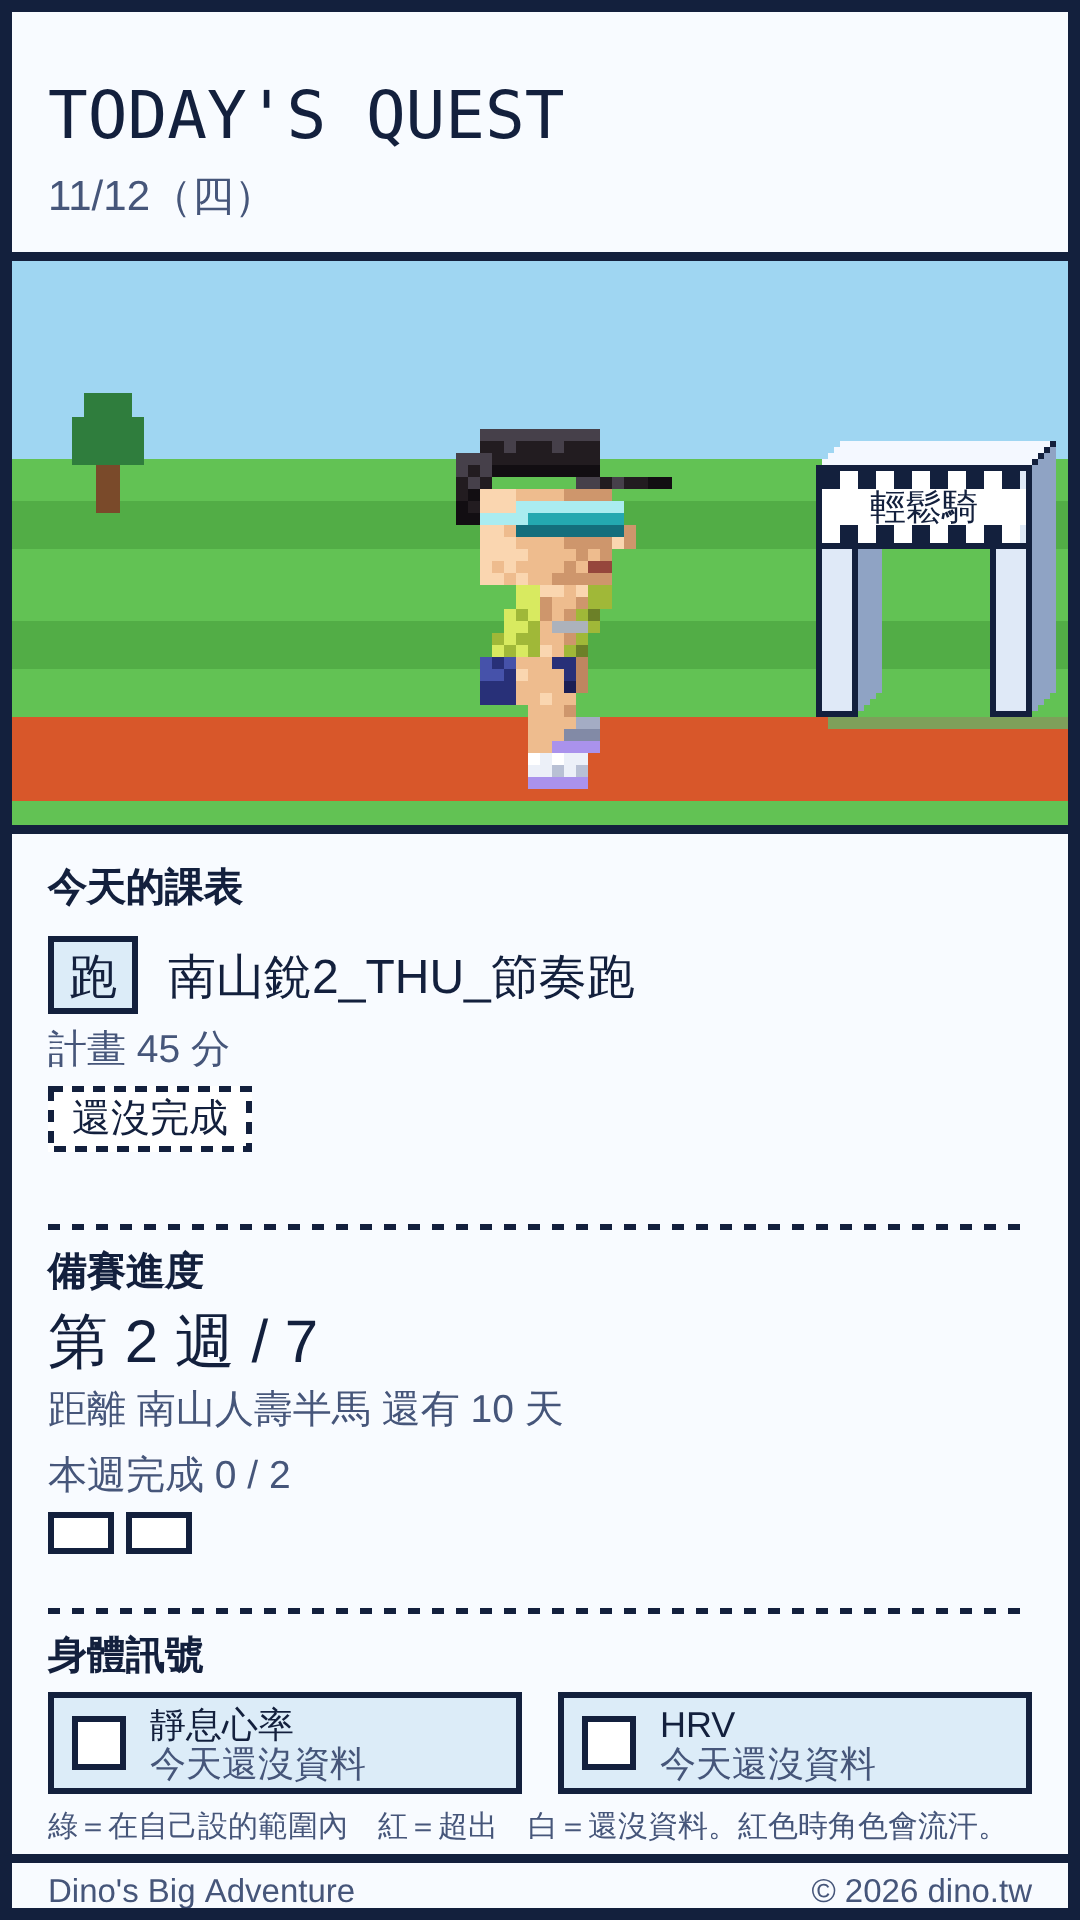
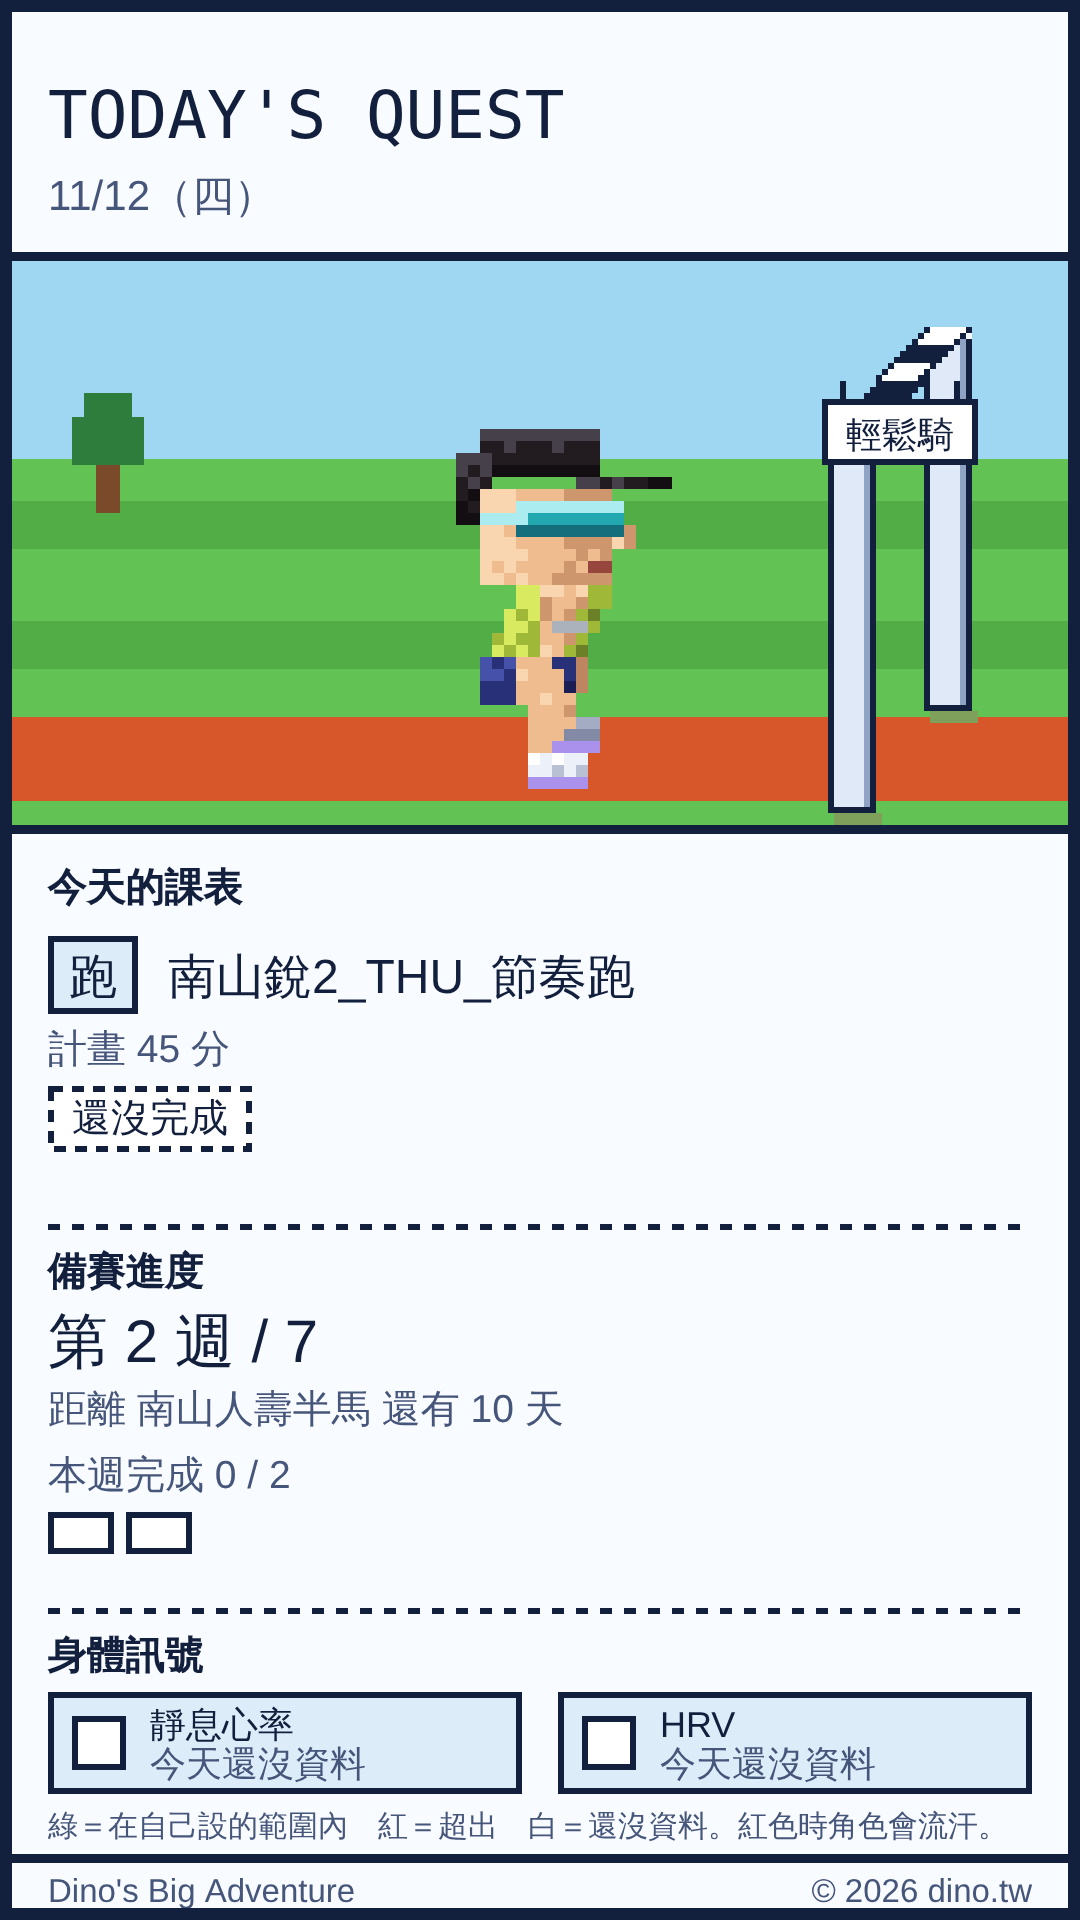
終點拱門改為橫跨跑道：兩柱分在跑道前後兩側、柱高大於娃娃、中間吊名牌

Changed region(s): [[0.7333, 0.1562, 0.9778, 0.4375]]

diff --git a/public-demo/index.html b/public-demo/index.html
@@ -92,25 +92,28 @@ function sprite(x,y,left,act,lvl){
   return out+'</g></g>';
 }
 var WD=['日','一','二','三','四','五','六'];
-/* 終點拱門（斜向立體，pixel 方塊）：回傳 {r:[[x,y,w,h,色]...], t:{x,y,w}}；t 是拱門橫樑上放文字的位置 */
-function archParts(x0,base,aw,ah){
-  var O='#13203d',W='#ffffff',PF='#dfe9f7',PS='#8fa3c4',PT='#f4f8ff',SH='#7ea05a',d=4,pw=7,lh=14,top=base-ah,R=[];
-  function box(x,y,bw,bh){
-    var k;
-    for(k=0;k<d;k++) R.push([x+k+1,y-k-1,bw,1,PT]);           // 頂面
-    for(k=0;k<d;k++) R.push([x+bw+k,y-k-1,1,bh,PS]);          // 側面（深一階）
-    R.push([x,y,bw,bh,PF]);                                    // 正面
-    R.push([x,y,bw,1,O],[x,y+bh-1,bw,1,O],[x,y,1,bh,O],[x+bw-1,y,1,bh,O]); // 正面外框
-    for(k=0;k<d;k++) R.push([x+bw+k,y-k-1,1,1,O]);            // 側面上緣
+/* 終點拱門（橫跨跑道）：近側柱在跑道前方、遠側柱在跑道後方，橫樑斜著連接兩柱頂，中間吊一塊名牌。
+   回傳 {r:[[x,y,w,h,色]...], t:{x,y,w}}；t 是名牌上放文字的位置。baseN／baseF＝近側／遠側柱腳的 y，ah＝柱高，dx＝遠側柱往右的位移，bw＝名牌寬 */
+function archParts(x0,baseN,baseF,ah,dx,bw){
+  var O='#13203d',W='#ffffff',PF='#dfe9f7',PS='#8fa3c4',PT='#f4f8ff',SH='#7ea05a',pw=6,bh=11,R=[];
+  function leg(x,base){
+    var y=base-ah;
+    R.push([x+1,base,pw+2,2,SH]);                                          // 地面影子
+    R.push([x,y-2,pw+2,2,PT]);                                             // 頂蓋
+    R.push([x,y,pw,ah,PF],[x+pw,y,2,ah,PS]);                               // 正面、側面（深一階）
+    R.push([x,y,1,ah,O],[x+pw+1,y,1,ah,O],[x,base-1,pw+2,1,O],[x,y-2,pw+2,1,O]); // 外框
   }
-  R.push([x0+2,base,aw+d,2,SH]);                              // 地面影子
-  box(x0,top+lh-2,pw,ah-lh+2);                                // 左柱
-  box(x0+aw-pw,top+lh-2,pw,ah-lh+2);                          // 右柱
-  box(x0,top,aw,lh);                                          // 橫樑
-  var i,n=Math.floor((aw-2)/3);
-  for(i=0;i<n;i++){ R.push([x0+1+i*3,top+1,3,3,i%2?W:O]); R.push([x0+1+i*3,top+lh-4,3,3,i%2?O:W]); } // 上下格紋
-  R.push([x0+1,top+4,aw-2,lh-8,W]);                           // 中間白底（放文字）
-  return {r:R,t:{x:x0+aw/2,y:top+lh-5,w:aw-6}};
+  leg(x0+dx,baseF);                                                        // 遠側柱（先畫）
+  var yf=baseF-ah-2, yn=baseN-ah-2, y, t;                                  // 橫樑：由遠柱頂斜到近柱頂，黑白相間
+  for(y=yf;y<=yn;y++){
+    t=(y-yf)/Math.max(1,yn-yf); var xl=x0+dx-Math.round(dx*t);
+    R.push([xl,y,pw+2,1,(Math.floor((y-yf)/3)%2)?O:W],[xl,y,1,1,O],[xl+pw+1,y,1,1,O]);
+  }
+  leg(x0,baseN);                                                           // 近側柱（後畫，擋在橫樑前）
+  var mx=x0+Math.round(dx/2)+4, my=Math.round((yf+yn)/2)+3;                // 名牌
+  R.push([mx-bw/2+3,my-3,1,3,O],[mx+bw/2-4,my-3,1,3,O]);                   // 吊繩
+  R.push([mx-bw/2,my,bw,bh,O],[mx-bw/2+1,my+1,bw-2,bh-2,W]);
+  return {r:R,t:{x:mx,y:my+bh-3,w:bw-4}};
 }
 function archLabel(s,maxChars){s=String(s||'');return s.length>maxChars?s.slice(0,maxChars-1)+'…':s}
 /* 課表原名 → 短標籤（前端顯示用；資料本身不改）。
@@ -143,7 +146,7 @@ function scene(){
   s+='<rect class="m-track" x="0" y="100" width="220" height="14" fill="var(--track)"/>';
   s+=sprite(110,104,false,act,sweat);
   if(SNAP.next){ // 右側的終點拱門，橫樑上寫下一個課表的名稱（用短標籤，例如 Z2、輕鬆騎）
-    var A=archParts(166,112,46,52), lb=archLabel(wlabel(SNAP.next.title,SNAP.next.kind),6), fs=Math.max(4,Math.min(8,Math.floor(A.t.w/lb.length)));
+    var A=archParts(160,119,100,66,19,30), lb=archLabel(wlabel(SNAP.next.title,SNAP.next.kind),5), fs=Math.max(5,Math.min(8,Math.floor(A.t.w/lb.length)));
     A.r.forEach(function(q){s+='<rect x="'+q[0]+'" y="'+q[1]+'" width="'+q[2]+'" height="'+q[3]+'" fill="'+q[4]+'"/>'});
     s+='<text x="'+A.t.x+'" y="'+A.t.y+'" text-anchor="middle" font-size="'+fs+'" fill="#13203d" style="font-family:var(--font-body)">'+esc(lb)+'</text>';
   }

diff --git a/source/showcase_template.html b/source/showcase_template.html
@@ -50,25 +50,28 @@ h1,h2,p{margin:0}
 var SNAP=__SNAP__;
 __SPRITE__
 var WD=['日','一','二','三','四','五','六'];
-/* 終點拱門（斜向立體，pixel 方塊）：回傳 {r:[[x,y,w,h,色]...], t:{x,y,w}}；t 是拱門橫樑上放文字的位置 */
-function archParts(x0,base,aw,ah){
-  var O='#13203d',W='#ffffff',PF='#dfe9f7',PS='#8fa3c4',PT='#f4f8ff',SH='#7ea05a',d=4,pw=7,lh=14,top=base-ah,R=[];
-  function box(x,y,bw,bh){
-    var k;
-    for(k=0;k<d;k++) R.push([x+k+1,y-k-1,bw,1,PT]);           // 頂面
-    for(k=0;k<d;k++) R.push([x+bw+k,y-k-1,1,bh,PS]);          // 側面（深一階）
-    R.push([x,y,bw,bh,PF]);                                    // 正面
-    R.push([x,y,bw,1,O],[x,y+bh-1,bw,1,O],[x,y,1,bh,O],[x+bw-1,y,1,bh,O]); // 正面外框
-    for(k=0;k<d;k++) R.push([x+bw+k,y-k-1,1,1,O]);            // 側面上緣
+/* 終點拱門（橫跨跑道）：近側柱在跑道前方、遠側柱在跑道後方，橫樑斜著連接兩柱頂，中間吊一塊名牌。
+   回傳 {r:[[x,y,w,h,色]...], t:{x,y,w}}；t 是名牌上放文字的位置。baseN／baseF＝近側／遠側柱腳的 y，ah＝柱高，dx＝遠側柱往右的位移，bw＝名牌寬 */
+function archParts(x0,baseN,baseF,ah,dx,bw){
+  var O='#13203d',W='#ffffff',PF='#dfe9f7',PS='#8fa3c4',PT='#f4f8ff',SH='#7ea05a',pw=6,bh=11,R=[];
+  function leg(x,base){
+    var y=base-ah;
+    R.push([x+1,base,pw+2,2,SH]);                                          // 地面影子
+    R.push([x,y-2,pw+2,2,PT]);                                             // 頂蓋
+    R.push([x,y,pw,ah,PF],[x+pw,y,2,ah,PS]);                               // 正面、側面（深一階）
+    R.push([x,y,1,ah,O],[x+pw+1,y,1,ah,O],[x,base-1,pw+2,1,O],[x,y-2,pw+2,1,O]); // 外框
   }
-  R.push([x0+2,base,aw+d,2,SH]);                              // 地面影子
-  box(x0,top+lh-2,pw,ah-lh+2);                                // 左柱
-  box(x0+aw-pw,top+lh-2,pw,ah-lh+2);                          // 右柱
-  box(x0,top,aw,lh);                                          // 橫樑
-  var i,n=Math.floor((aw-2)/3);
-  for(i=0;i<n;i++){ R.push([x0+1+i*3,top+1,3,3,i%2?W:O]); R.push([x0+1+i*3,top+lh-4,3,3,i%2?O:W]); } // 上下格紋
-  R.push([x0+1,top+4,aw-2,lh-8,W]);                           // 中間白底（放文字）
-  return {r:R,t:{x:x0+aw/2,y:top+lh-5,w:aw-6}};
+  leg(x0+dx,baseF);                                                        // 遠側柱（先畫）
+  var yf=baseF-ah-2, yn=baseN-ah-2, y, t;                                  // 橫樑：由遠柱頂斜到近柱頂，黑白相間
+  for(y=yf;y<=yn;y++){
+    t=(y-yf)/Math.max(1,yn-yf); var xl=x0+dx-Math.round(dx*t);
+    R.push([xl,y,pw+2,1,(Math.floor((y-yf)/3)%2)?O:W],[xl,y,1,1,O],[xl+pw+1,y,1,1,O]);
+  }
+  leg(x0,baseN);                                                           // 近側柱（後畫，擋在橫樑前）
+  var mx=x0+Math.round(dx/2)+4, my=Math.round((yf+yn)/2)+3;                // 名牌
+  R.push([mx-bw/2+3,my-3,1,3,O],[mx+bw/2-4,my-3,1,3,O]);                   // 吊繩
+  R.push([mx-bw/2,my,bw,bh,O],[mx-bw/2+1,my+1,bw-2,bh-2,W]);
+  return {r:R,t:{x:mx,y:my+bh-3,w:bw-4}};
 }
 function archLabel(s,maxChars){s=String(s||'');return s.length>maxChars?s.slice(0,maxChars-1)+'…':s}
 /* 課表原名 → 短標籤（前端顯示用；資料本身不改）。
@@ -100,7 +103,7 @@ function scene(){
   s+='<rect class="m-track" x="0" y="100" width="220" height="14" fill="var(--track)"/>';
   s+=sprite(110,104,false,act,sweat);
   if(SNAP.next){ // 右側的終點拱門，橫樑上寫下一個課表的名稱（用短標籤，例如 Z2、輕鬆騎）
-    var A=archParts(166,112,46,52), lb=archLabel(wlabel(SNAP.next.title,SNAP.next.kind),6), fs=Math.max(4,Math.min(8,Math.floor(A.t.w/lb.length)));
+    var A=archParts(160,119,100,66,19,30), lb=archLabel(wlabel(SNAP.next.title,SNAP.next.kind),5), fs=Math.max(5,Math.min(8,Math.floor(A.t.w/lb.length)));
     A.r.forEach(function(q){s+='<rect x="'+q[0]+'" y="'+q[1]+'" width="'+q[2]+'" height="'+q[3]+'" fill="'+q[4]+'"/>'});
     s+='<text x="'+A.t.x+'" y="'+A.t.y+'" text-anchor="middle" font-size="'+fs+'" fill="#13203d" style="font-family:var(--font-body)">'+esc(lb)+'</text>';
   }

diff --git a/public/index.html b/public/index.html
@@ -730,25 +730,28 @@ function cfit(ctx,text,maxW,size,font){
   while(ctx.measureText(text).width>maxW&&z>10){z--;ctx.font=z+'px '+font}
   return text;
 }
-/* 終點拱門（斜向立體，pixel 方塊）：回傳 {r:[[x,y,w,h,色]...], t:{x,y,w}}；t 是拱門橫樑上放文字的位置 */
-function archParts(x0,base,aw,ah){
-  var O='#13203d',W='#ffffff',PF='#dfe9f7',PS='#8fa3c4',PT='#f4f8ff',SH='#7ea05a',d=4,pw=7,lh=14,top=base-ah,R=[];
-  function box(x,y,bw,bh){
-    var k;
-    for(k=0;k<d;k++) R.push([x+k+1,y-k-1,bw,1,PT]);           // 頂面
-    for(k=0;k<d;k++) R.push([x+bw+k,y-k-1,1,bh,PS]);          // 側面（深一階）
-    R.push([x,y,bw,bh,PF]);                                    // 正面
-    R.push([x,y,bw,1,O],[x,y+bh-1,bw,1,O],[x,y,1,bh,O],[x+bw-1,y,1,bh,O]); // 正面外框
-    for(k=0;k<d;k++) R.push([x+bw+k,y-k-1,1,1,O]);            // 側面上緣
+/* 終點拱門（橫跨跑道）：近側柱在跑道前方、遠側柱在跑道後方，橫樑斜著連接兩柱頂，中間吊一塊名牌。
+   回傳 {r:[[x,y,w,h,色]...], t:{x,y,w}}；t 是名牌上放文字的位置。baseN／baseF＝近側／遠側柱腳的 y，ah＝柱高，dx＝遠側柱往右的位移，bw＝名牌寬 */
+function archParts(x0,baseN,baseF,ah,dx,bw){
+  var O='#13203d',W='#ffffff',PF='#dfe9f7',PS='#8fa3c4',PT='#f4f8ff',SH='#7ea05a',pw=6,bh=11,R=[];
+  function leg(x,base){
+    var y=base-ah;
+    R.push([x+1,base,pw+2,2,SH]);                                          // 地面影子
+    R.push([x,y-2,pw+2,2,PT]);                                             // 頂蓋
+    R.push([x,y,pw,ah,PF],[x+pw,y,2,ah,PS]);                               // 正面、側面（深一階）
+    R.push([x,y,1,ah,O],[x+pw+1,y,1,ah,O],[x,base-1,pw+2,1,O],[x,y-2,pw+2,1,O]); // 外框
   }
-  R.push([x0+2,base,aw+d,2,SH]);                              // 地面影子
-  box(x0,top+lh-2,pw,ah-lh+2);                                // 左柱
-  box(x0+aw-pw,top+lh-2,pw,ah-lh+2);                          // 右柱
-  box(x0,top,aw,lh);                                          // 橫樑
-  var i,n=Math.floor((aw-2)/3);
-  for(i=0;i<n;i++){ R.push([x0+1+i*3,top+1,3,3,i%2?W:O]); R.push([x0+1+i*3,top+lh-4,3,3,i%2?O:W]); } // 上下格紋
-  R.push([x0+1,top+4,aw-2,lh-8,W]);                           // 中間白底（放文字）
-  return {r:R,t:{x:x0+aw/2,y:top+lh-5,w:aw-6}};
+  leg(x0+dx,baseF);                                                        // 遠側柱（先畫）
+  var yf=baseF-ah-2, yn=baseN-ah-2, y, t;                                  // 橫樑：由遠柱頂斜到近柱頂，黑白相間
+  for(y=yf;y<=yn;y++){
+    t=(y-yf)/Math.max(1,yn-yf); var xl=x0+dx-Math.round(dx*t);
+    R.push([xl,y,pw+2,1,(Math.floor((y-yf)/3)%2)?O:W],[xl,y,1,1,O],[xl+pw+1,y,1,1,O]);
+  }
+  leg(x0,baseN);                                                           // 近側柱（後畫，擋在橫樑前）
+  var mx=x0+Math.round(dx/2)+4, my=Math.round((yf+yn)/2)+3;                // 名牌
+  R.push([mx-bw/2+3,my-3,1,3,O],[mx+bw/2-4,my-3,1,3,O]);                   // 吊繩
+  R.push([mx-bw/2,my,bw,bh,O],[mx-bw/2+1,my+1,bw-2,bh-2,W]);
+  return {r:R,t:{x:mx,y:my+bh-3,w:bw-4}};
 }
 function archLabel(s,maxChars){s=String(s||'');return s.length>maxChars?s.slice(0,maxChars-1)+'…':s}
 /* 課表原名 → 短標籤（前端顯示用；資料本身不改）。
@@ -791,7 +794,7 @@ function drawCard(D){
   var fi=D.act==='run'?1:0; if(fi>=A.f.length) fi=0;
   A.f[fi].forEach(function(r){R(sx+r[1]*K,sy+r[0]*K,r[2]*K,K,'#'+ACT.p[r[3]])});
   if(NX){ // 右側的終點拱門，橫樑上寫下一個課表的名稱（私人頁面，用課表原名）
-    var AP=archParts(136,76,36,42), lb=archLabel(wlabel(NX.title,NX.kind),6), fs=Math.max(3,Math.min(6,Math.floor(AP.t.w/lb.length)));
+    var AP=archParts(138,92,75,62,16,26), lb=archLabel(wlabel(NX.title,NX.kind),5), fs=Math.max(3,Math.min(6,Math.floor(AP.t.w/lb.length)));
     AP.r.forEach(function(q){R(q[0],q[1],q[2],q[3],q[4])});
     ctx.fillStyle='#13203d'; ctx.textAlign='center'; ctx.font=fs+'px '+BODY; ctx.fillText(lb,AP.t.x,AP.t.y); ctx.textAlign='left';
   }

diff --git a/CLAUDE.md b/CLAUDE.md
@@ -38,7 +38,7 @@
 - 身分與驗證（2026-11-12）：長期方向為專屬身分服務、各服務自己授權（草稿，待決定）；階段 0 已生效：Google 登入方式已建立，`adventure` 只留 Google 並開 Instant authentication，電腦直接跳 Google、iPhone 主畫面網頁直接進頁面（2026-11-12）；兩層登入時間已設（Dino 回報）；待確認太太帳號是否在 Google 測試使用者，並觀察長期不重登。文件索引見 docs/README.md。
 - 同步狀態提示（2026-11-12）：右下角按鈕「↻ 更新於 HH:MM」，最近一次同步失敗時多一行紅字「同步失敗：原因（HH:MM）」，超過 24 小時沒有成功同步時顯示「超過 N 小時未更新」，從未成功同步顯示「尚未成功同步」；/api/sync-status 回傳 failed、staleHours。四種情況並排截圖：docs/shots/sync_status_states.png（scripts/sync_status_states.cjs）。同步失敗的主動通知：Dino 決定**不做**（失敗不嚴重，頁面有呈現即可，2026-11-12）。
 - 自訂網域（2026-11-12）：完整版 adventure.dino.tw、展示版 quest.dino.tw（已部署並驗證，2026-11-12：adventure.dino.tw 未登入時 302 導向 Access 登入；quest.dino.tw 公開，/api/snapshot 回 200，其餘 /api/* 為 404，無禁止欄位；檢查腳本 scripts/check_domains.sh；Dino 確認新網址使用正常）；trilog.run 不用於 adventure；ACCESS_AUD 支援逗號分隔多個。workers.dev 先保留過渡。
-- 展示版與圖卡調整（2026-11-12）：workers.dev 已關閉（`workers_dev = false`）；頁尾為「© 年份 dino.tw」；名稱為「Dino's Big Adventure」。**課表名稱的顯示在前端處理**：`source/wlabel.js` 的 `wlabel()` 把課表原名轉成短標籤（「南山銳1_WED_跑步Z2」→「Z2」、「…騎車恢復」→「輕鬆騎」、「…節奏跑」→「節奏跑」；不是「計畫_星期_內容」格式的名稱，例如含地名的活動名稱，只顯示類型），展示版模板與完整版頁面各內含同一份（有測試比對一致）。**伺服器維持回傳原本的課表資料（含原名），沒有轉換內容；只新增 `next` 欄位**（今天之後最近一筆有排的訓練：date、kind、title、mins）。「下一個課表」以**場景右側的立體終點拱門**呈現（橫樑上寫短標籤，娃娃面向右前進）：展示版場景與完整版今日圖卡有；休息日的等角場景與完整版地圖沒有。注意：公開的 /api/snapshot 現在含課表原名與計畫外活動名稱（可能含地名），前端只是不顯示；是否限縮由 Dino 決定。圖卡樣張 docs/shots/card_arch_sample.png。副標與 kicker 仍保留賽事字樣，待決定。
+- 展示版與圖卡調整（2026-11-12）：workers.dev 已關閉（`workers_dev = false`）；頁尾為「© 年份 dino.tw」；名稱為「Dino's Big Adventure」。**課表名稱的顯示在前端處理**：`source/wlabel.js` 的 `wlabel()` 把課表原名轉成短標籤（「南山銳1_WED_跑步Z2」→「Z2」、「…騎車恢復」→「輕鬆騎」、「…節奏跑」→「節奏跑」；不是「計畫_星期_內容」格式的名稱，例如含地名的活動名稱，只顯示類型），展示版模板與完整版頁面各內含同一份（有測試比對一致）。**伺服器維持回傳原本的課表資料（含原名），沒有轉換內容；只新增 `next` 欄位**（今天之後最近一筆有排的訓練：date、kind、title、mins）。「下一個課表」以**場景右側橫跨跑道的立體終點拱門**呈現（近側柱在跑道前方、遠側柱在跑道後方，斜橫樑黑白相間，中間吊名牌寫短標籤；柱高大於娃娃；娃娃面向右前進）：展示版場景與完整版今日圖卡有；休息日的等角場景與完整版地圖沒有。注意：公開的 /api/snapshot 現在含課表原名與計畫外活動名稱（可能含地名），前端只是不顯示；是否限縮由 Dino 決定。圖卡樣張 docs/shots/card_arch_sample.png。副標與 kicker 仍保留賽事字樣，待決定。
 - 待驗收（2026-11-15 提醒）：Cloudflare 指標「未發現的例外」在 2026-11-12 修正 sync_log 缺 detail 欄位（遠端已補欄位並部署）後是否停止增加；頁面不再誤報紅色「同步失敗」。
 - 階段 4：收尾　未開始
 - 階段 5：切換上線與營運（切換與回退、金鑰輪替、備份還原、安全複查）　未開始；同步失敗通知已用頁面提示完成，不另外通知
